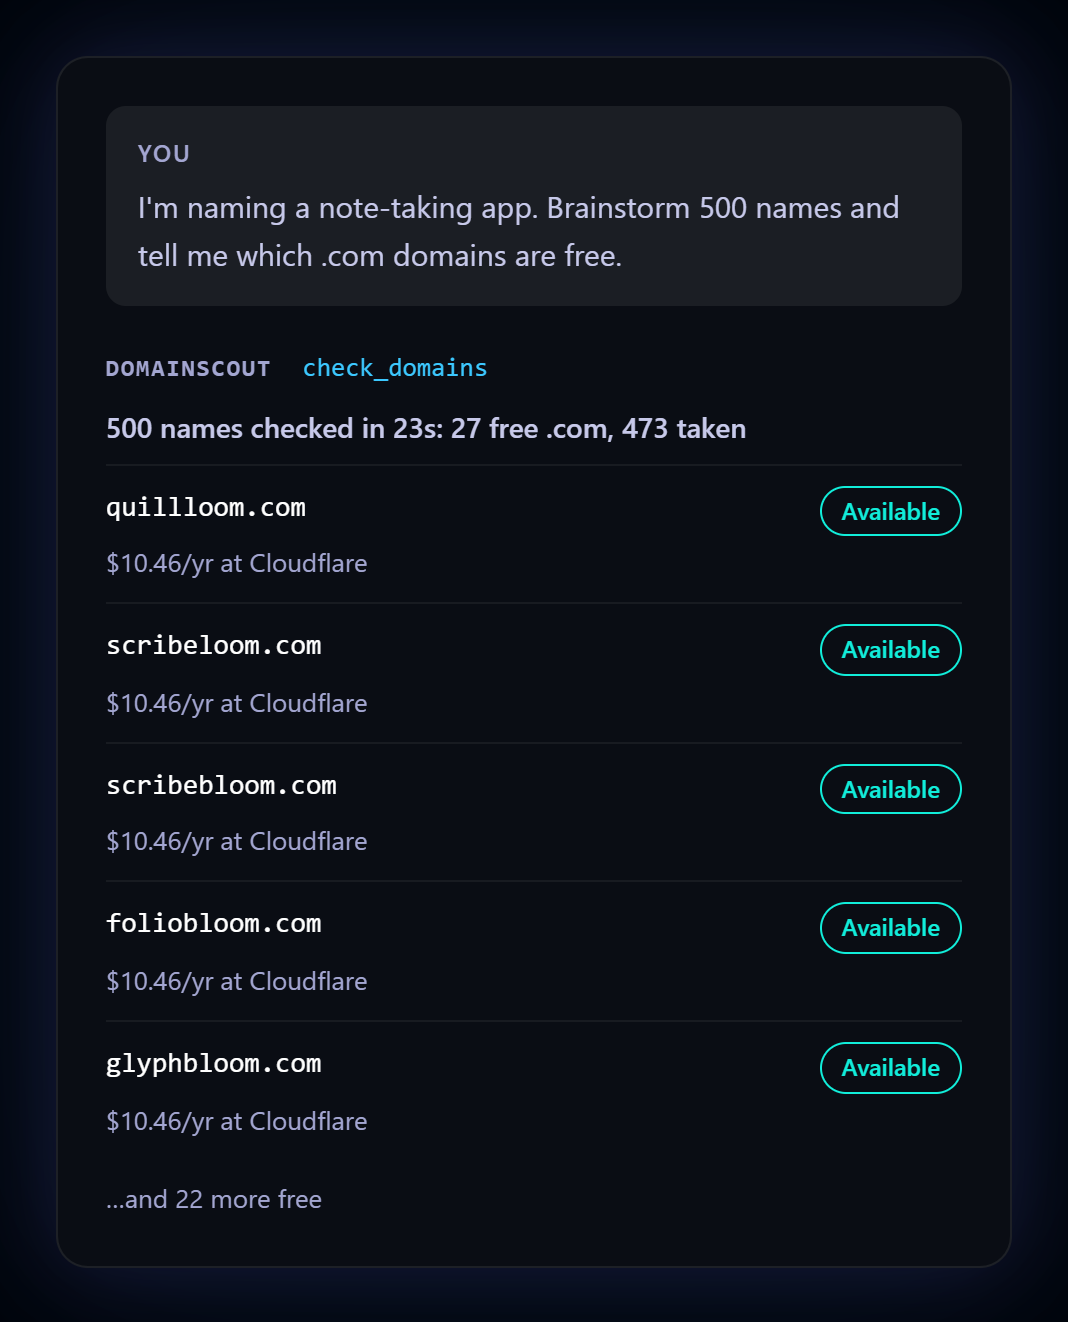
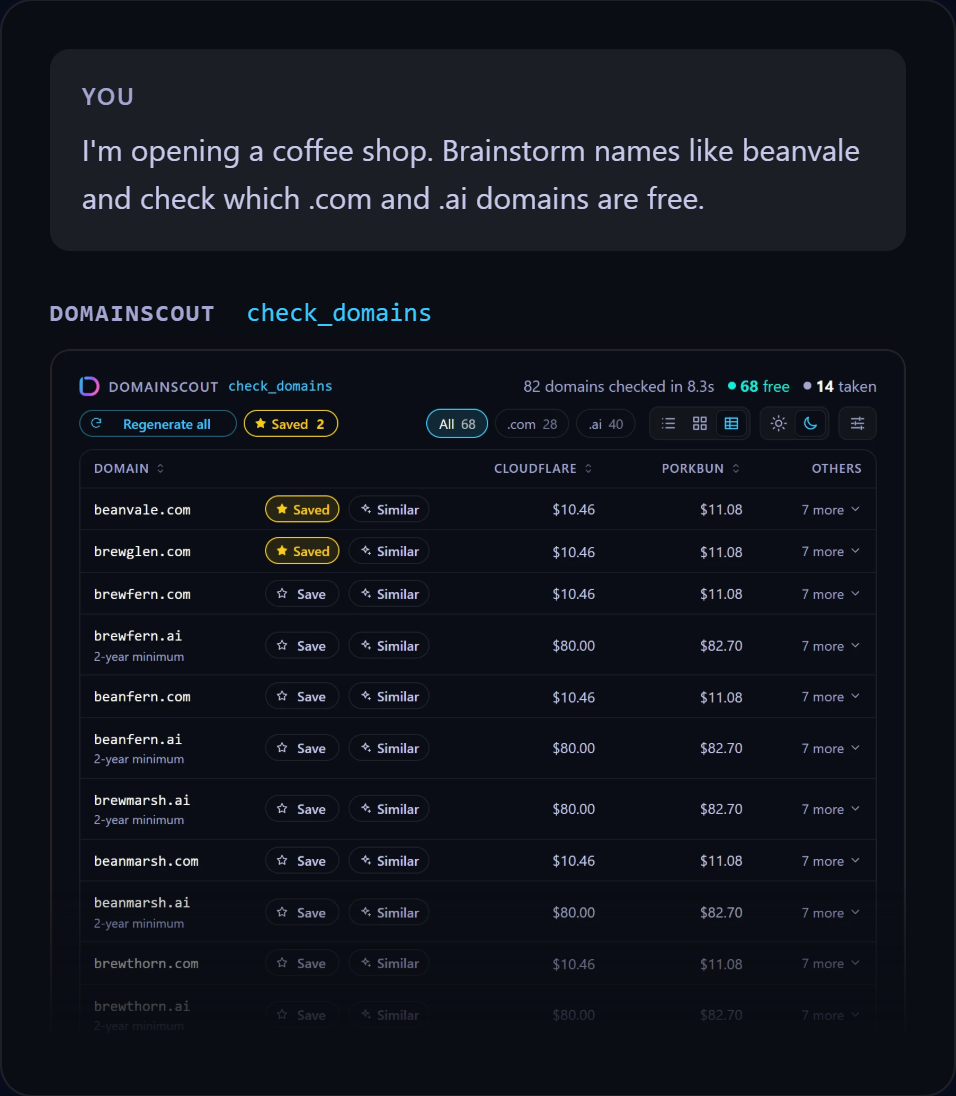
docs: the hero card and the README's first image show the results panel
The landing page's hero card answers a coffee-shop brainstorm with a photograph of the panel instead of a drawn list, and the README's first image, which npm shows too, is that card.

diff --git a/site/index.html b/site/index.html
@@ -180,21 +180,14 @@
           </ul>
         </div>
 
-        <figure class="hero__card glass" aria-label="Example: checking 500 brainstormed names">
+        <figure class="hero__card glass" aria-label="Example: brainstormed names checked, the results as a panel in the chat">
           <figcaption class="chat__prompt">
             <span class="chat__who">You</span>
-            <!-- generated:prompt -->I'm naming a note-taking app. Brainstorm 500 names and tell me which .com domains are free.<!-- /generated:prompt -->
+            I'm opening a coffee shop. Brainstorm names like beanvale and check which .com and .ai domains are free.
           </figcaption>
           <div class="chat__tool"><span class="chat__who">DomainScout</span> check_domains</div>
-          <!-- generated:hero --><p class="results__summary">500 names checked in 20s: 27 free .com, 473 taken</p>
-<ul class="results">
-<li class="result result--likely_available"><span class="result__domain">quillloom.com</span><span class="pill pill--likely_available">Available</span><span class="result__price">$10.46/yr at Cloudflare</span></li>
-<li class="result result--likely_available"><span class="result__domain">scribeloom.com</span><span class="pill pill--likely_available">Available</span><span class="result__price">$10.46/yr at Cloudflare</span></li>
-<li class="result result--likely_available"><span class="result__domain">scribebloom.com</span><span class="pill pill--likely_available">Available</span><span class="result__price">$10.46/yr at Cloudflare</span></li>
-<li class="result result--likely_available"><span class="result__domain">foliobloom.com</span><span class="pill pill--likely_available">Available</span><span class="result__price">$10.46/yr at Cloudflare</span></li>
-<li class="result result--likely_available"><span class="result__domain">glyphbloom.com</span><span class="pill pill--likely_available">Available</span><span class="result__price">$10.46/yr at Cloudflare</span></li>
-</ul>
-<p class="results__more">…and 22 more free</p><!-- /generated:hero -->
+          <img class="hero__panel" src="panel/table-dark.webp" width="760" height="620" fetchpriority="high" decoding="async"
+            alt="The DomainScout panel in the chat: 82 domains checked, the free ones as a price table at Cloudflare and Porkbun, two saved names first" />
         </figure>
       </section>
 

diff --git a/site/styles.css b/site/styles.css
@@ -478,6 +478,15 @@ h3 {
     0 0 110px rgba(34, 195, 245, 0.08);
 }
 
+/* The panel the tool answers with, photographed on a real check; it fades out at the bottom. */
+.hero__panel {
+  display: block;
+  width: 100%;
+  height: auto;
+  border-radius: var(--radius-small);
+  mask-image: linear-gradient(#000 75%, transparent);
+}
+
 .chat__prompt {
   padding: 14px 16px;
   border-radius: var(--radius-small);

diff --git a/README.md b/README.md
@@ -8,7 +8,7 @@
 [![npm](https://img.shields.io/npm/v/@dakaio/domainscout-mcp)](https://www.npmjs.com/package/@dakaio/domainscout-mcp)
 [![License: MIT](https://img.shields.io/badge/license-MIT-blue)](LICENSE)
 
-![DomainScout in an AI assistant: 500 brainstormed names checked in one call, the free .com domains with their prices](assets/domainscout-bulk.png)
+![DomainScout in an AI assistant: brainstormed names checked in one call, the free domains as a price table right in the chat](assets/domainscout-bulk.png)
 
 DomainScout is an MCP server for bulk domain search. Your AI assistant brainstorms hundreds of
 names, and DomainScout checks all of them in one call: which are free, what they cost and where
